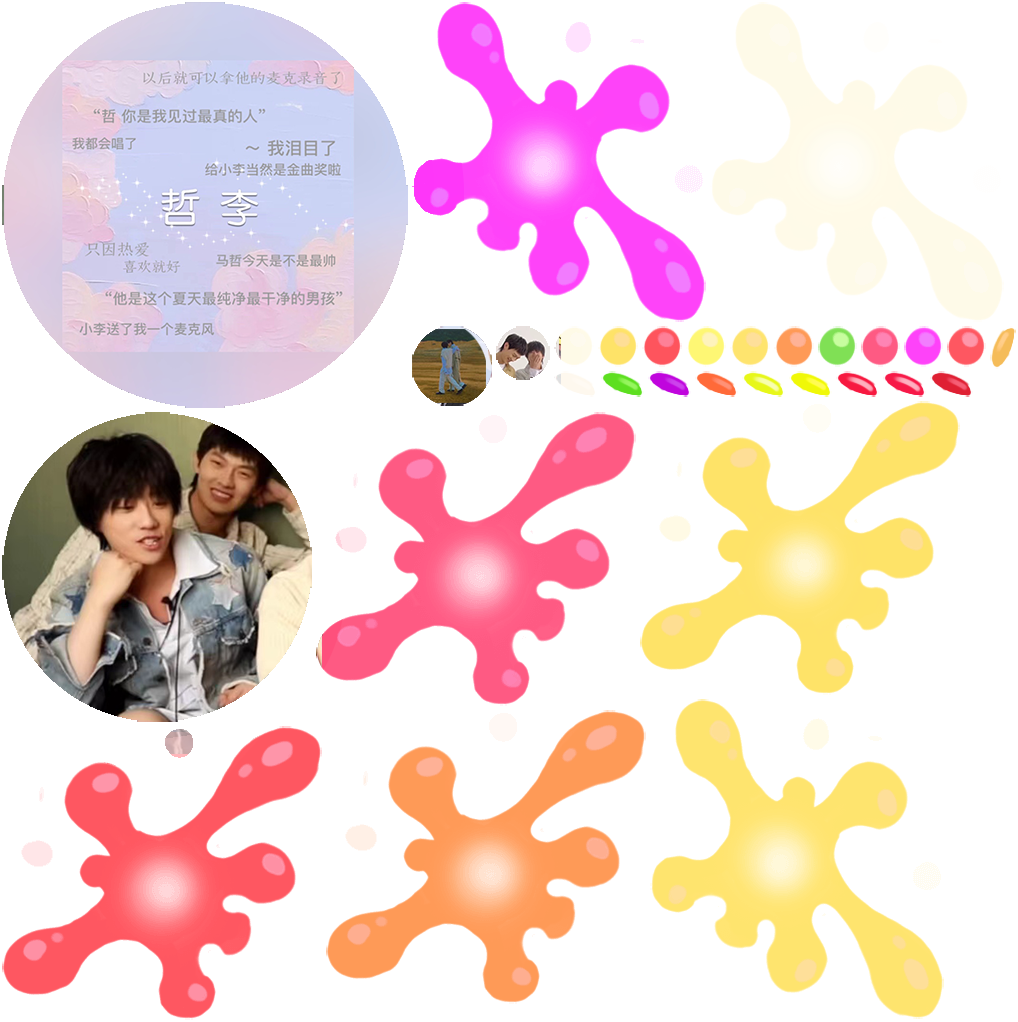
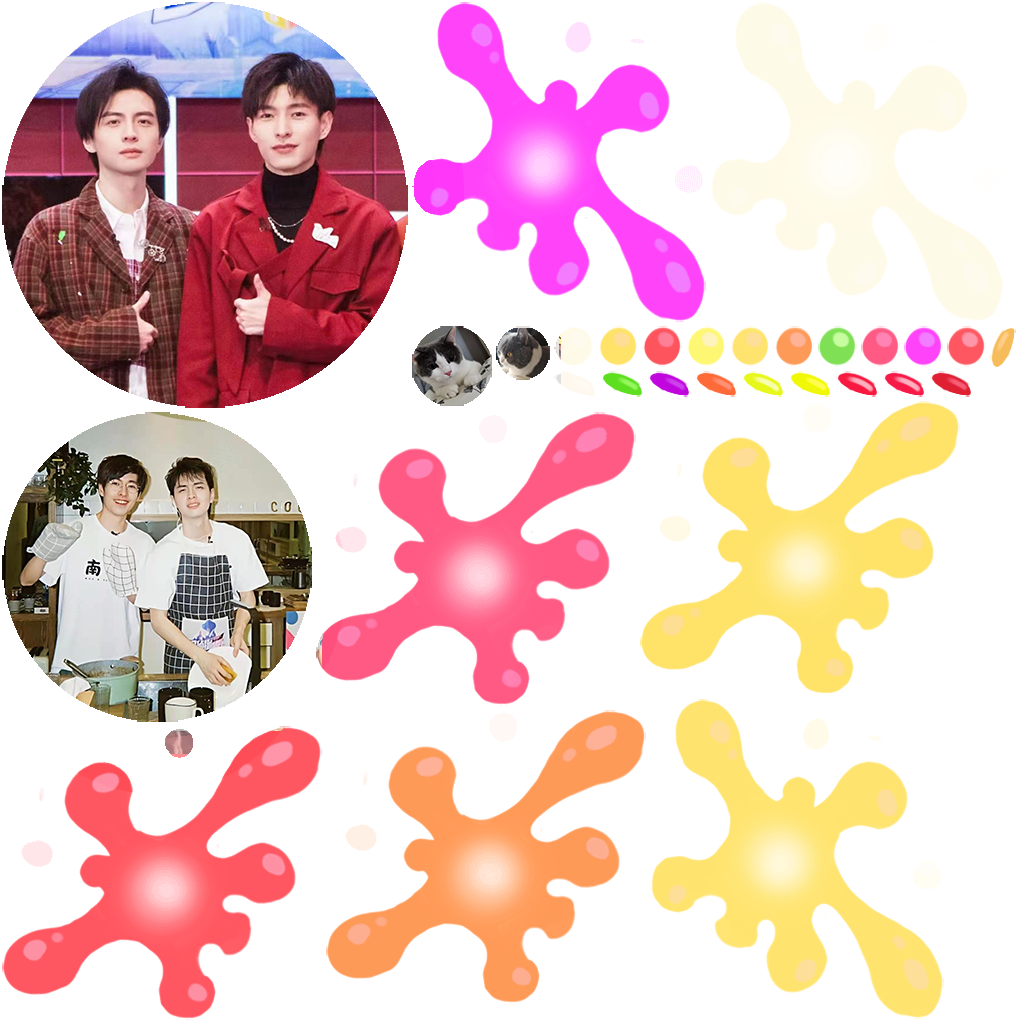
nitial commit

Changed region(s): [[0.0, 0.0, 0.4263, 0.7583], [0.3959, 0.3033, 0.5481, 0.3943]]

diff --git a/index.html b/index.html
@@ -4,7 +4,7 @@
 <head>
     <meta charset="utf-8">
 
-    <title>合成哲李</title>
+    <title>合成南北</title>
 
     <!--http://www.html5rocks.com/en/mobile/mobifying/-->
     <meta name="viewport" content="width=device-width,user-scalable=no,initial-scale=1, minimum-scale=1,maximum-scale=1" />
@@ -109,7 +109,7 @@
             //        console.log("window.navigator.language",window.navigator.language);
 
             if (window.navigator.language == "zh-CN" || window.navigator.language == "zh-cn") {
-                document.title = "合成哲李";
+                document.title = "合成南北";
             } 
 
 
